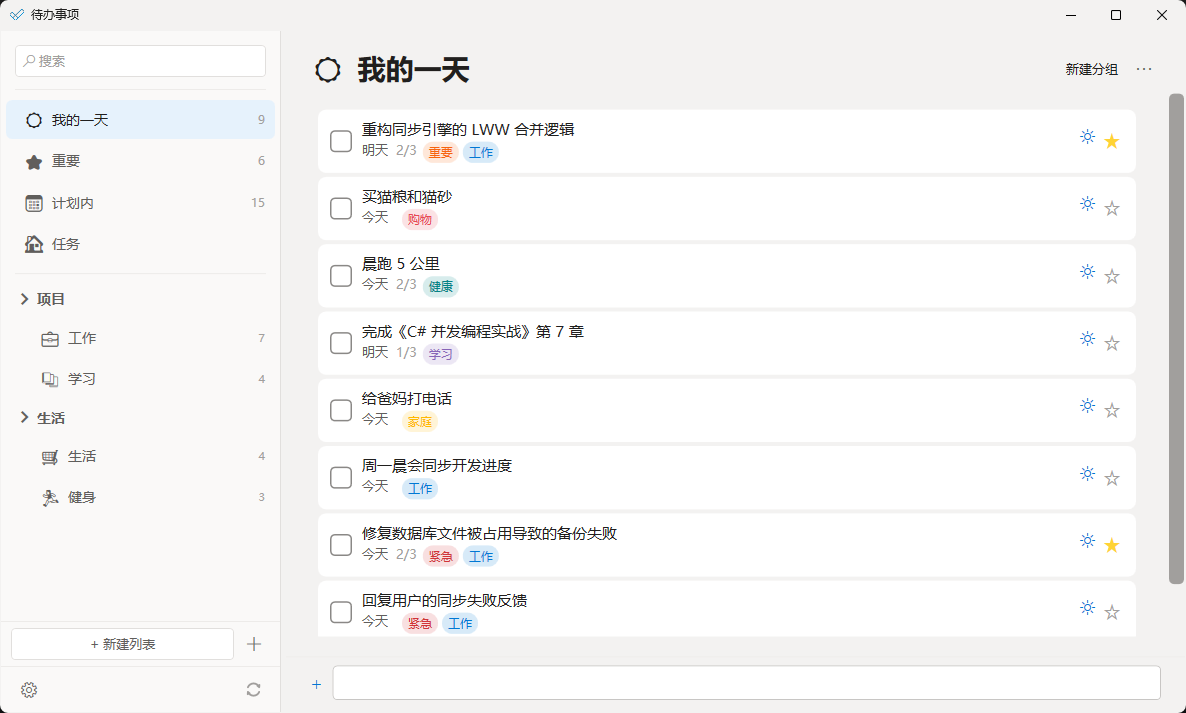
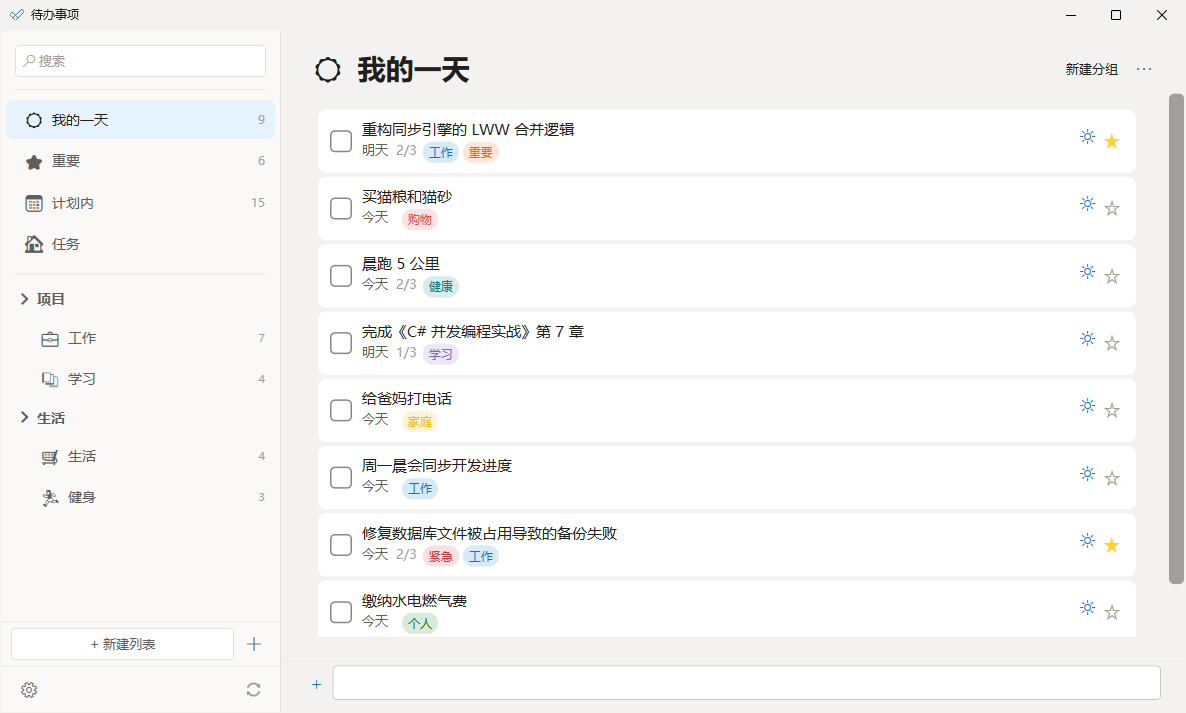
feat(tools): 新增截图生成脚本 + 文档,截图四角切直角去除桌面残留
- tools/screenshots/capture-screenshots.ps1:一键复现 README 截图(构建→演示数据→
  UIA 驱动→截图→边缘自检),支持 -Theme/-OutputDir/-SkipBuild,结束后恢复真实
  settings.json,不碰真实数据库
- 截图细节:DWMWA_EXTENDED_FRAME_BOUNDS 去窗口阴影;DWM 圆角偏好切直角,消除
  Win11 圆角四角透出桌面背景
- docs/screenshots.md:生成流程 + 两个坑(阴影/圆角) + 像素验证坐标表
- README:截图小节引用脚本,设计文档区加截图文档链接

diff --git a/docs/screenshots.md b/docs/screenshots.md
@@ -1,0 +1,60 @@
+# README 功能截图：生成与验证
+
+README 顶部三张功能截图（[work-list.png](../screenshots/work-list.png) / [my-day.png](../screenshots/my-day.png) / [settings.png](../screenshots/settings.png)）由**演示数据**驱动生成，保证内容可复现、可重新截取。
+
+## 数据来源
+
+截图不来自真实数据，而是先由 [ToDo.Demo](../ToDo.Demo/) 生成一份演示数据库（工作 / 学习 / 生活 / 健身列表、分组、彩色标签、步骤、截止日期、My Day 任务），应用启动时指向这份临时数据库，因此每次截图内容一致，也不会触碰用户的真实 `%LOCALAPPDATA%\ToDo\todo.db`。
+
+## 如何重新生成
+
+仓库内脚本 [tools/screenshots/capture-screenshots.ps1](../tools/screenshots/capture-screenshots.ps1) 完成全流程：
+
+```powershell
+# 默认：Debug 构建 → 演示数据 → 浅色主题 → 写入 screenshots/
+powershell -NoProfile -ExecutionPolicy Bypass -File tools/screenshots/capture-screenshots.ps1
+
+# 深色主题截图，输出到自定义目录
+powershell -NoProfile -ExecutionPolicy Bypass -File tools/screenshots/capture-screenshots.ps1 -Theme Dark -OutputDir C:\tmp\shots
+
+# 已构建过，跳过编译
+powershell -NoProfile -ExecutionPolicy Bypass -File tools/screenshots/capture-screenshots.ps1 -SkipBuild
+```
+
+脚本流程：
+
+1. `dotnet build ToDo.slnx`（可 `-SkipBuild` 跳过）。
+2. 运行 ToDo.Demo 生成临时演示 DB（`%TEMP%\todo-screenshot-<Theme>.db`）。
+3. 备份真实 `settings.json`，写入临时设置（指向演示 DB、指定主题、关闭更新 / 同步 / 提醒）——**结束必恢复**，真实数据全程不被修改。
+4. 启动应用，UIAutomation 驱动界面：点击侧边栏「工作」→ 截图；点击「我的一天」→ 截图；打开设置页 → 截图。
+5. 每张截图自动做边缘自检，失败即抛错并退出（退出码 1）。
+
+## 两个关键细节（踩过的坑）
+
+### 1. 用 `DWMWA_EXTENDED_FRAME_BOUNDS` 截取，避免窗口阴影
+
+`GetWindowRect` 返回的矩形会把 Windows 窗口的**投影阴影**也算进去（Win10/11 实测左右下各约 7px、顶部 0），截出来四边不对称（上窄、左右下宽）。因此脚本用 DWM 的 `DWMWA_EXTENDED_FRAME_BOUNDS`（attr 9）取窗口**可见区域**截图，四边统一。
+
+验证方式：对每张截图采样四边最外 12px 条带，要求无暗色（<40）像素、且四边边缘色一致（应为当前主题边框色，浅色 `#F3F2F1`）。
+
+### 2. 截图时把窗口切成直角，避免圆角露出桌面背景
+
+Win11 窗口默认圆角，圆角外是透明区域——即使去掉阴影，四角仍会透出桌面壁纸。脚本启动窗口后设置 DWM `DWMWA_WINDOW_CORNER_PREFERENCE`（attr 33）为 `1`（`DWMWCP_DONOTROUND`），让角落填满窗口自身颜色（标题栏 / 侧边栏色），截图干净。
+
+验证方式：采样四角 10×10 区域，要求无暗色像素、角点颜色等于窗口内容色。
+
+> 注意：这只影响脚本临时启动的窗口，用户正常运行的窗口不受影响，仍是系统圆角。
+
+## 像素级验证（截图后人工抽检）
+
+主题色对不上、边框不对称都会让 README 截图显得突兀。抽检坐标（浅色主题，窗口 1186×713）：
+
+| 区域 | 期望颜色 |
+|---|---|
+| 标题栏（顶部） | `#F3F2F1` |
+| 侧边栏（左侧） | `#FAF9F8` |
+| 主内容区 | `#FFFFFF` |
+| 设置页背景 | `#F3F2F1` |
+| 四边边缘 | `#F3F2F1`（与标题栏一致） |
+
+深色主题对应：标题栏 / 内容 `#202020`，侧边栏 `#1B1B1B`，文字 `#FFFFFF`。
